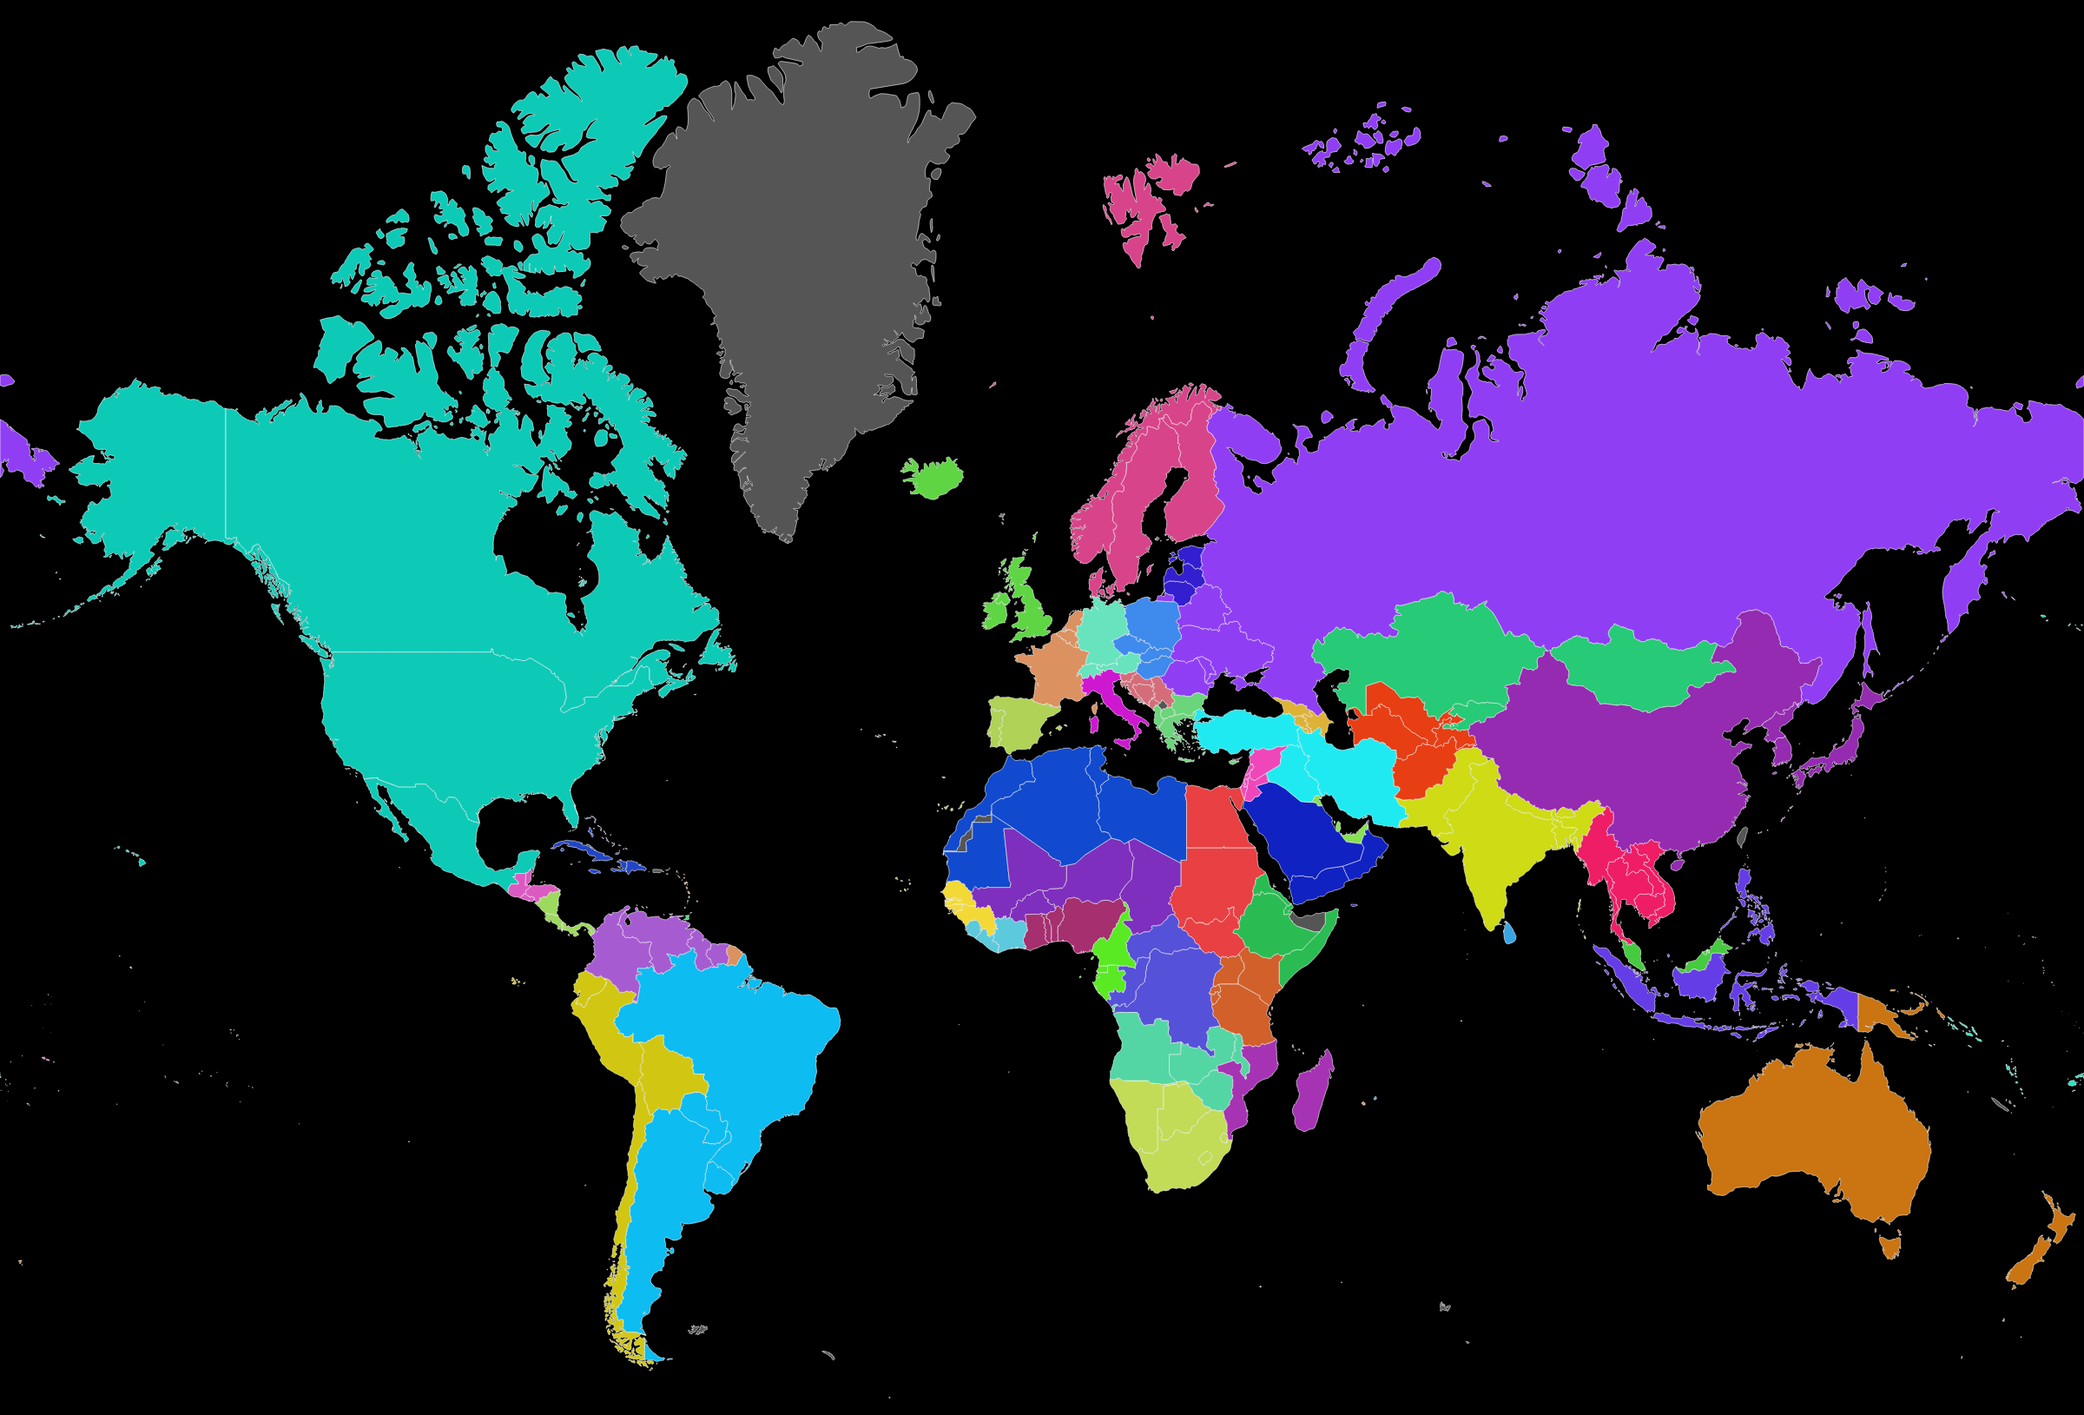
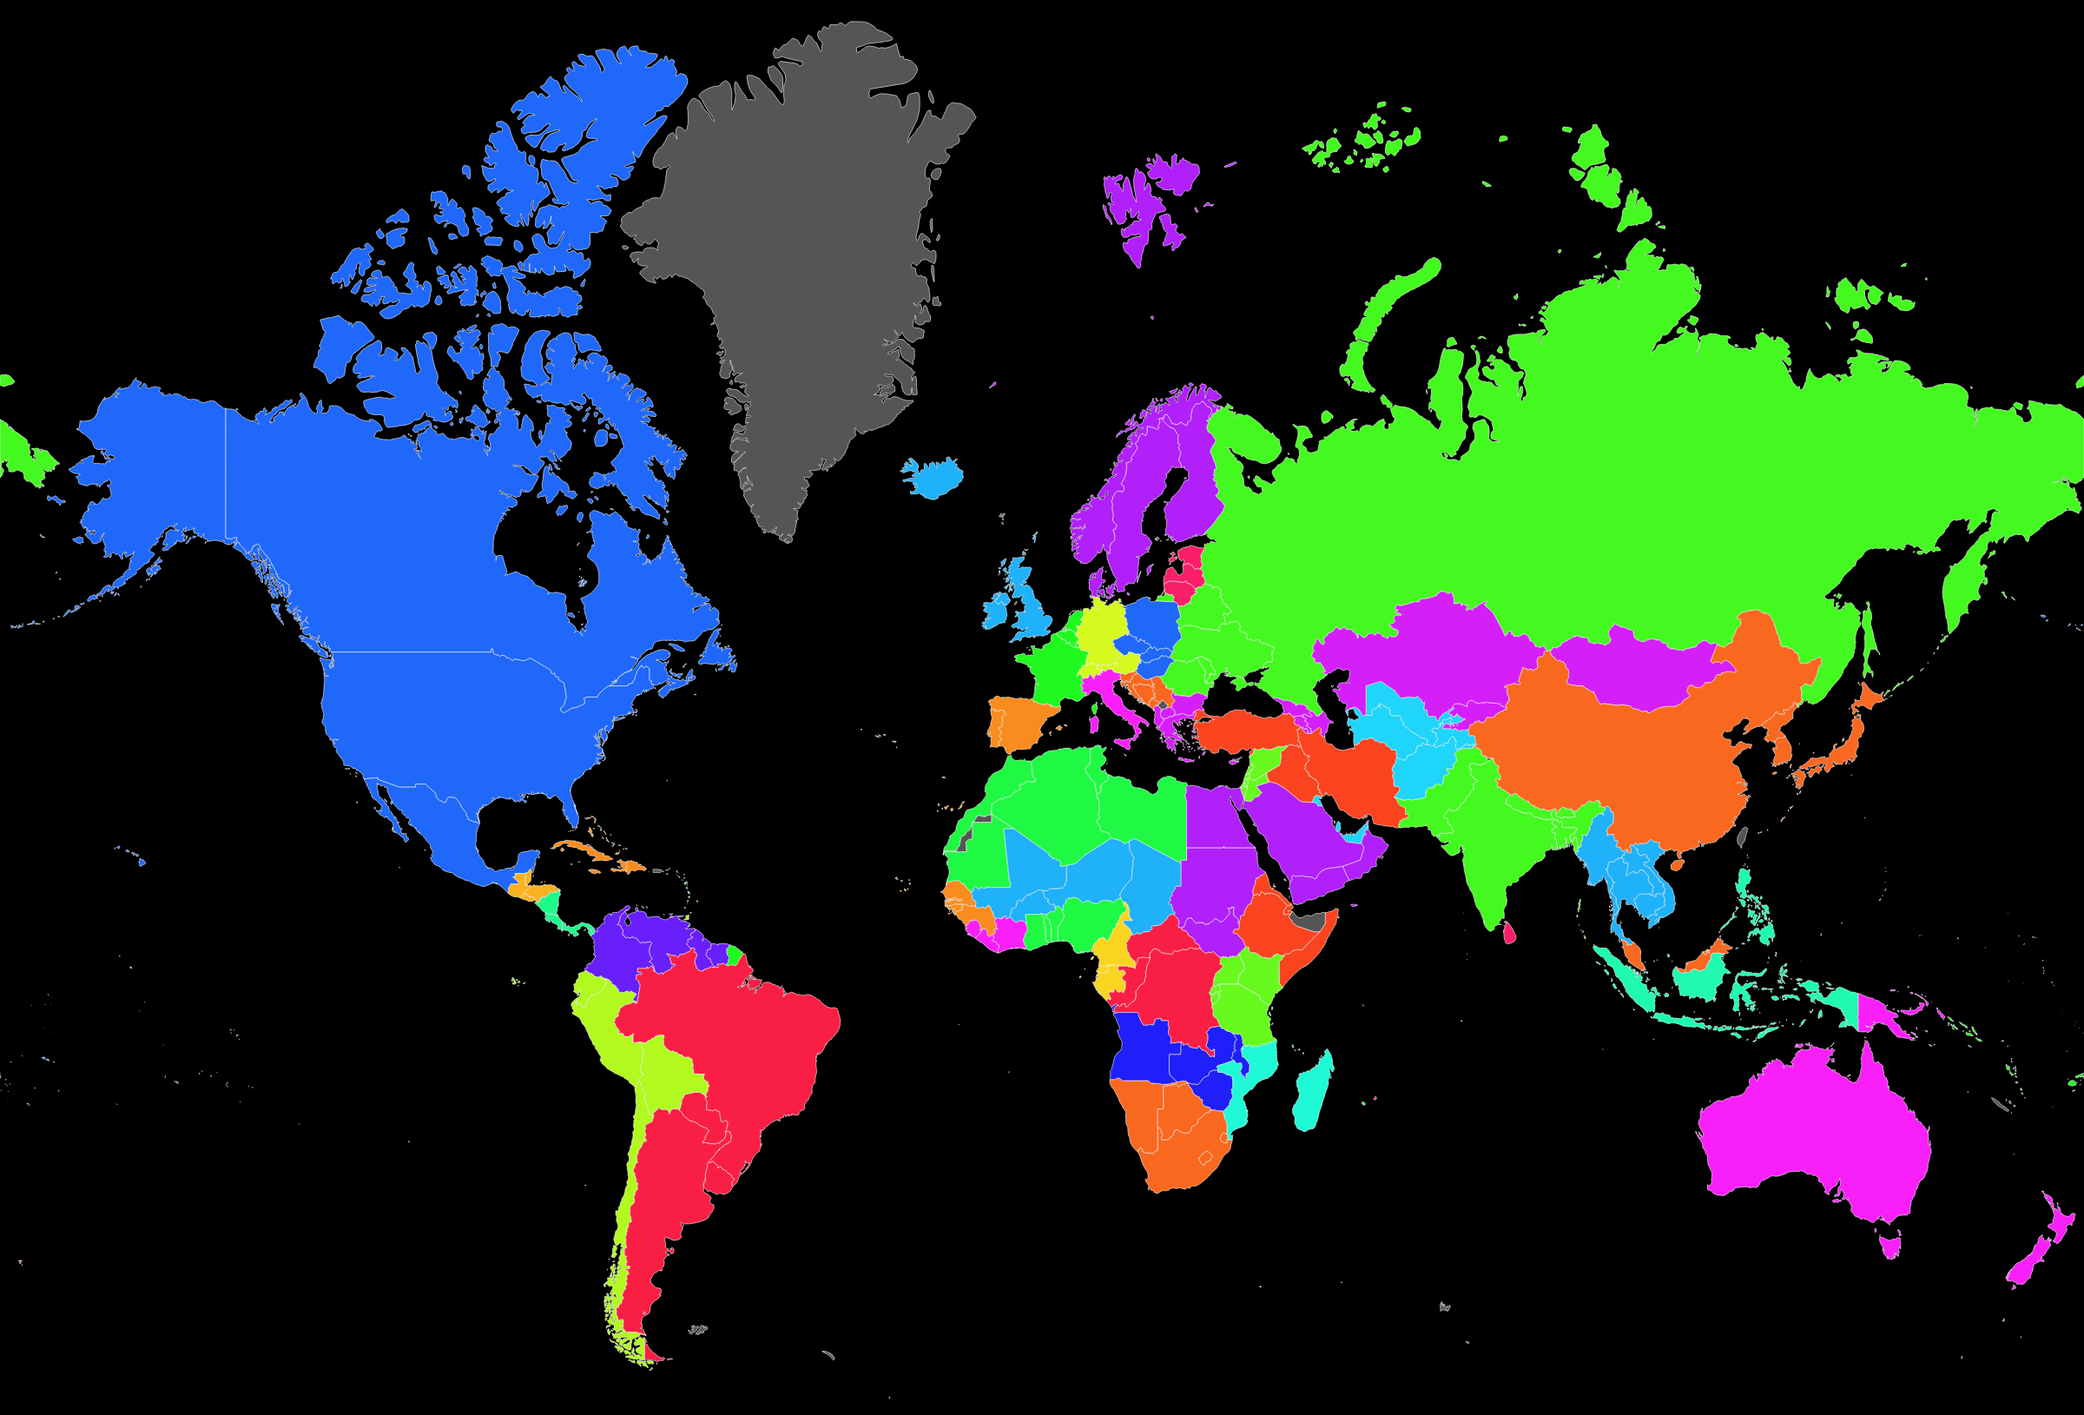
Save the country group colours instead of picking them on every load
A script now picks the colours once and saves them to
src/data/countryGroupColours.json, which the globes and the docs map read.
Rerunning it keeps existing colours and only colours new groups, so editing
the groups doesn't recolour the world, and colours can be tuned by hand.

diff --git a/src/features/globe/countryGroupColours.ts b/src/features/globe/countryGroupColours.ts
@@ -1,12 +1,18 @@
 import { neighbors } from 'topojson-client'
 import type { GeometryCollection, Topology } from 'topojson-specification'
 import isoCountries from 'i18n-iso-countries'
-import worldAtlas50m from 'world-atlas/countries-50m.json'
-import { COUNTRY_GROUPS } from '../../shared/countryFacts'
+import worldAtlas50m from 'world-atlas/countries-50m.json' with { type: 'json' }
+import countryGroupsJson from '../../data/countryGroups.json' with { type: 'json' }
 
-// Colours for the country groups (src/data/countryGroups.json): the tint of
-// the region globe, where new regions are chosen, and of the dev option that
-// tints every globe.
+// Picks the colours of the country groups (src/data/countryGroups.json): the
+// tint of the region globe, where new regions are chosen, and of the dev option
+// that tints every globe. Not used by the app itself:
+// scripts/make-country-group-colours.mjs saves the colours to
+// src/data/countryGroupColours.json, which the app reads. The JSON imports
+// carry `with { type: 'json' }` so the script can import this file in Node.
+
+type CountryGroup = { id: string; name: string; countries: string[] }
+const COUNTRY_GROUPS: CountryGroup[] = countryGroupsJson
 
 // Bright: fully saturated, mid lightness.
 const SATURATION = 95
@@ -49,21 +55,24 @@ export function groupNeighbours(): Map<string, Set<string>> {
 }
 
 // Distance between two hues round the colour wheel, 0 to 180 degrees.
-function hueDistance(a: number, b: number): number {
+export function hueDistance(a: number, b: number): number {
   const difference = Math.abs(a - b) % 360
   return Math.min(difference, 360 - difference)
 }
 
-// Picks a hue for each group, as far as possible from its neighbours' hues.
-// Groups are coloured in a random order; each tries every HUE_STEP degrees
-// (from a random start) and takes the hue furthest from the neighbours
-// already coloured, with ties broken at random.
+// Picks a hue for each group that has none in `keptHues`, as far as possible
+// from its neighbours' hues; groups in `keptHues` keep theirs. The new groups
+// are coloured in a random order; each tries every HUE_STEP degrees (from a
+// random start) and takes the hue furthest from the neighbours already
+// coloured, with ties broken at random.
 export function chooseGroupHues(
   neighbours: Map<string, Set<string>>,
+  keptHues: Map<string, number> = new Map(),
   random: () => number = Math.random,
 ): Map<string, number> {
   const hues = new Map<string, number>()
-  const order = [...neighbours.keys()].sort(() => random() - 0.5)
+  for (const [id, hue] of keptHues) if (neighbours.has(id)) hues.set(id, hue)
+  const order = [...neighbours.keys()].filter((id) => !hues.has(id)).sort(() => random() - 0.5)
   const start = random() * 360
   for (const id of order) {
     let bestHues: number[] = []
@@ -88,14 +97,13 @@ export function chooseGroupHues(
   return hues
 }
 
-// A colour for each of the 195 countries, keyed by ISO alpha-3 code: its
-// group's colour. Different on every page load.
-export function chooseCountryGroupColours(): Record<string, string> {
-  const hues = chooseGroupHues(groupNeighbours())
-  const colours: Record<string, string> = {}
-  for (const group of COUNTRY_GROUPS) {
-    const colour = `hsl(${Math.round(hues.get(group.id)!)}, ${SATURATION}%, ${LIGHTNESS}%)`
-    for (const code of group.countries) colours[code] = colour
-  }
-  return colours
+// The CSS colour saved for a hue, e.g. "hsl(210, 95%, 55%)".
+export function hueToColour(hue: number): string {
+  return `hsl(${Math.round(hue)}, ${SATURATION}%, ${LIGHTNESS}%)`
+}
+
+// The hue of a saved colour, or null if it isn't written as hsl(...).
+export function colourToHue(colour: string): number | null {
+  const match = /^hsl\(\s*(\d+(?:\.\d+)?)/.exec(colour)
+  return match === null ? null : Number(match[1])
 }

diff --git a/src/features/globe/countryGroupColours.test.ts b/src/features/globe/countryGroupColours.test.ts
@@ -1,5 +1,23 @@
 import { describe, expect, it } from 'vitest'
-import { chooseCountryGroupColours, chooseGroupHues, groupNeighbours } from './countryGroupColours'
+import groupColoursJson from '../../data/countryGroupColours.json'
+import { COUNTRY_GROUPS } from '../../shared/countryFacts'
+import {
+  chooseGroupHues,
+  colourToHue,
+  groupNeighbours,
+  hueDistance,
+  hueToColour,
+} from './countryGroupColours'
+
+const savedColours: Record<string, string> = groupColoursJson
+
+function expectNeighboursApart(hues: Map<string, number>, neighbours: Map<string, Set<string>>) {
+  for (const [id, others] of neighbours) {
+    for (const other of others) {
+      expect(hueDistance(hues.get(id)!, hues.get(other)!), `${id} / ${other}`).toBeGreaterThan(10)
+    }
+  }
+}
 
 describe('groupNeighbours', () => {
   it('links groups that share a land border, both ways', () => {
@@ -16,22 +34,34 @@ describe('groupNeighbours', () => {
 describe('chooseGroupHues', () => {
   it('keeps every pair of neighbouring groups clearly apart in hue', () => {
     const neighbours = groupNeighbours()
-    for (let run = 0; run < 20; run++) {
-      const hues = chooseGroupHues(neighbours)
-      for (const [id, others] of neighbours) {
-        for (const other of others) {
-          const difference = Math.abs(hues.get(id)! - hues.get(other)!) % 360
-          expect(Math.min(difference, 360 - difference), `${id} / ${other}`).toBeGreaterThan(10)
-        }
-      }
-    }
+    for (let run = 0; run < 20; run++)
+      expectNeighboursApart(chooseGroupHues(neighbours), neighbours)
+  })
+
+  it('keeps the hues it is given and picks the rest', () => {
+    const neighbours = groupNeighbours()
+    const hues = chooseGroupHues(neighbours, new Map([['nordic', 123]]))
+    expect(hues.get('nordic')).toBe(123)
+    expect(hues.size).toBe(COUNTRY_GROUPS.length)
   })
 })
 
-describe('chooseCountryGroupColours', () => {
-  it('gives all 195 countries a colour, shared within each group', () => {
-    const colours = chooseCountryGroupColours()
-    expect(Object.keys(colours).length).toBe(195)
-    expect(colours['NOR']).toBe(colours['SWE'])
+describe('hueToColour and colourToHue', () => {
+  it('write a hue as hsl(...) and read it back', () => {
+    expect(colourToHue(hueToColour(210))).toBe(210)
+    expect(colourToHue('#ff0000')).toBe(null)
+  })
+})
+
+describe('the saved colours (countryGroupColours.json)', () => {
+  it('give exactly the groups a colour each', () => {
+    expect(Object.keys(savedColours).sort()).toEqual(COUNTRY_GROUPS.map((group) => group.id).sort())
+  })
+
+  it('keep neighbouring groups clearly apart in hue', () => {
+    const hues = new Map(
+      Object.entries(savedColours).map(([id, colour]) => [id, colourToHue(colour)!]),
+    )
+    expectNeighboursApart(hues, groupNeighbours())
   })
 })

diff --git a/src/features/globe/countryMap.ts b/src/features/globe/countryMap.ts
@@ -14,8 +14,8 @@ import maplibreWorkerUrl from 'maplibre-gl/dist/maplibre-gl-worker.mjs?url'
 import type { FeatureCollection } from 'geojson'
 import { loadCountryShapes } from '../../shared/countries'
 import { countryFacts } from '../../shared/countryFacts'
+import groupColoursJson from '../../data/countryGroupColours.json'
 import { areCountryGroupsShown } from '../dev/showCountryGroups'
-import { chooseCountryGroupColours } from './countryGroupColours'
 import { prepareGeometryForFlatMap } from './flatMapGeometry'
 import { focusZoomFor, WIDE_SCREEN_MIN_PX } from './focusZoom'
 import { mainLandmassCentre, mainLandmassWidthKm } from './mainLandmass'
@@ -76,9 +76,9 @@ const BORDERS_MAX_DETAIL_ZOOM = 8
 // Full-detail borders: MapLibre simplifies them itself for each zoom level.
 export const COUNTRY_SHAPES = loadCountryShapes()
 
-// Each country's group colour (see countryGroupColours.ts), chosen once per
-// page load.
-const GROUP_COLOURS: Record<string, string> = chooseCountryGroupColours()
+// Each group's colour, keyed by group id, saved by
+// scripts/make-country-group-colours.mjs.
+const GROUP_COLOURS: Record<string, string> = groupColoursJson
 
 // MapLibre needs GeoJSON. Each feature's id is its index in COUNTRY_SHAPES, so
 // a tapped feature can be turned back into its CountryShape. The 195 countries
@@ -95,7 +95,7 @@ const COUNTRY_FEATURES: FeatureCollection = {
       properties:
         facts === undefined
           ? {}
-          : { groupId: facts.groupId, groupColour: GROUP_COLOURS[facts.isoAlpha3] },
+          : { groupId: facts.groupId, groupColour: GROUP_COLOURS[facts.groupId] },
     }
   }),
 }

diff --git a/CLAUDE.md b/CLAUDE.md
@@ -38,7 +38,7 @@ Features link up via ISO alpha-3 country codes. Scope: the 195 countries (193 UN
    - The globe question is either "Locate country on globe" (`LocateCountryGlobe.tsx`) or "Name country from globe" (`NameCountryGlobe.tsx`), a coin flip each time. They share one FSRS schedule.
    - Area, population and IHDI are answered by picking a named range (see Data); capital and country name are typed. Typed answers ignore case, accents and surrounding spaces, with no fuzzy matching. Names also accept the official name and `countryNameAlternatives.json`.
    - The flashcards menu offers **Classic** (all questions learned in Settings) and **Custom Practice** (`CustomPracticeMenu.tsx`: tick which question types to practise today). Only the practised questions decide which countries are due and are reviewed; the others keep their schedules. Custom Practice only shows countries already in the Passport (`canDiscoverCountries` in `FlashcardsView.tsx`), though one can still be asked a question for the first time; new countries are discovered in Classic or the Passport's "New country" card.
-   - New countries are learned one country group at a time (`countryGroups.json`, see Data). The user picks it as a region on a full-screen globe (`RegionGlobe.tsx`, shared by Classic and the Passport): unfinished groups are tinted in their colours (`countryGroupColours.ts`), hovering highlights a whole region, and tapping one flies to it (`flyToGroup` in `countryMap.ts`) and shows a card with "Discover this region →". It is saved (`src/shared/learningGroup.ts`) and stays pending until all its countries are in the Passport; `pendingGroupId` in `passport.ts` works this out from progress, so a group finished anywhere is done. Classic asks for a group only when nothing is due and none is pending.
+   - New countries are learned one country group at a time (`countryGroups.json`, see Data). The user picks it as a region on a full-screen globe (`RegionGlobe.tsx`, shared by Classic and the Passport): unfinished groups are tinted in their saved colours (see Data), hovering highlights a whole region, and tapping one flies to it (`flyToGroup` in `countryMap.ts`) and shows a card with "Discover this region →". It is saved (`src/shared/learningGroup.ts`) and stays pending until all its countries are in the Passport; `pendingGroupId` in `passport.ts` works this out from progress, so a group finished anywhere is done. Classic asks for a group only when nothing is due and none is pending.
    - Scheduling: FSRS via `ts-fsrs` (`fsrs.ts`), one schedule per question. Whole days only, fuzz on, default parameters. Right = Good, wrong = Again (always due tomorrow), a range pick one title off = Hard (`rangeAnswerResult` in `rangeQuestions.ts`). A card is due when its earliest practised question is (`countryDueDate` in `deck.ts`); finishing a card reviews all its practised questions. Due countries come first (most overdue first), then the pending group's unseen ones in random order.
    - Before a new country or the region globe (so never in Custom Practice), if the average familiarity of countries already seen is too low (`isTooUnfamiliarForNewCountry` in `passport.ts`), a warning replaces the card with a button to continue anyway. Otherwise, a country not yet in the Passport gets a "Discovering a new country" screen before its card (skipped right after continuing past the warning).
    - Every finished card, in any mode, is followed by a reward (`CardReward.tsx`, chosen by `rewardAfterCard`): for a new country's first card the Passport count rolling up by one, otherwise the country's familiarity ring filling from empty. The ring always covers the questions learned in Settings, so it matches the Passport even in Custom Practice.
@@ -52,7 +52,7 @@ Features link up via ISO alpha-3 country codes. Scope: the 195 countries (193 UN
    - Familiarity (`countryRecall` in `passport.ts`): the average FSRS chance of remembering the country's answered, learned questions `FAMILIARITY_DAYS_AHEAD` days from now (on the day of a review it is always ~100%). Shown as a ring (`RecallCircle.tsx`), used by the Familiarity sort and by the new-country warning.
    - Sort choice is remembered (`src/shared/passportSort.ts`); discovery times for Date discovered are saved in `src/shared/discoveries.ts`.
 5. **Dev menu** (`src/features/dev/`) – on the dev server only (`import.meta.env.DEV`), a "dev" tab on the right edge of every screen (`DevTools.tsx`, rendered in `App.tsx`) opens buttons that edit saved progress to set up flashcard situations: skip days, add well-known/shaky countries, make everything or nothing due, reset (logic in `devProgress.ts`). After each change the current screen is remounted so it reads the new progress.
-   - "Show country groups on globes" tints every globe by country group, with the region globe's colours (`showCountryGroups.ts`). Not saved; globes read it when created. Colours are picked per page load, keeping neighbouring groups' hues apart.
+   - "Show country groups on globes" tints every globe by country group, with the region globe's colours (`showCountryGroups.ts`). Not saved; globes read it when created.
 
 ## Architecture decisions
 - **One web codebase**, deployed as the website and packaged as an APK with **Capacitor** (`capacitor.config.ts`, native project in `android/`).
@@ -90,7 +90,7 @@ Generated files are committed; each script lists its download links.
 - `src/data/countries.json` – facts for the 195 countries (typed as `CountryFacts` in `countryFacts.ts`), made by `node scripts/make-country-data.mjs <source-folder>`.
   - Names, capitals and area: mledoze/countries (a few missing second capitals are added in the script). Population: UN WPP 2024, 2025 medium-variant projection. HDI and IHDI: UNDP HDR 2025, latest year per country.
   - `ihdiEstimate`: for countries with an HDI but no IHDI, a least-squares line fitted on countries with both. Kept apart from `ihdi` so real and estimated values never mix; marked "(est.)" / "Estimated" in the UI.
-  - `groupId` / `groupName`: each country's group from the hand-written `src/data/countryGroups.json`, a partition of the 195 into groups of 3 to 5 similar neighbours (the script throws if a country is missing, repeated, or a group's size is off). Rename a group by its `name`; its `id` stays fixed (it is saved as the user's chosen group). `node scripts/make-country-groups-map.mjs` redraws `docs/country-groups.png` for checking them by eye.
+  - `groupId` / `groupName`: each country's group from the hand-written `src/data/countryGroups.json`, a partition of the 195 into groups of 3 to 5 similar neighbours (the script throws if a country is missing, repeated, or a group's size is off). Rename a group by its `name`; its `id` stays fixed (it is saved as the user's chosen group). Each group's colour on the globes is saved in `src/data/countryGroupColours.json` by `node scripts/make-country-group-colours.mjs` (picking rule in `countryGroupColours.ts`: bright, neighbours' hues kept apart). Rerun it after editing the groups: existing colours are kept and only new groups are coloured (`--all` repicks every one); a test fails if a group has no colour. `node scripts/make-country-groups-map.mjs` redraws `docs/country-groups.png` for checking them by eye. It uses the same colours.
 - `src/data/countryNameAlternatives.json` – hand-written other names (e.g. `"TUR": ["Turkey"]`), read with `alternativeNames`; used by the name question and the search.
 - `src/data/territorySubtitles.json` – hand-written description of each map area outside the 195, keyed by ISO code or, where there is none, the map's name. `{ISO}` in the text links to that country. Contested areas get neutral wording. To be reviewed by the owner.
 
